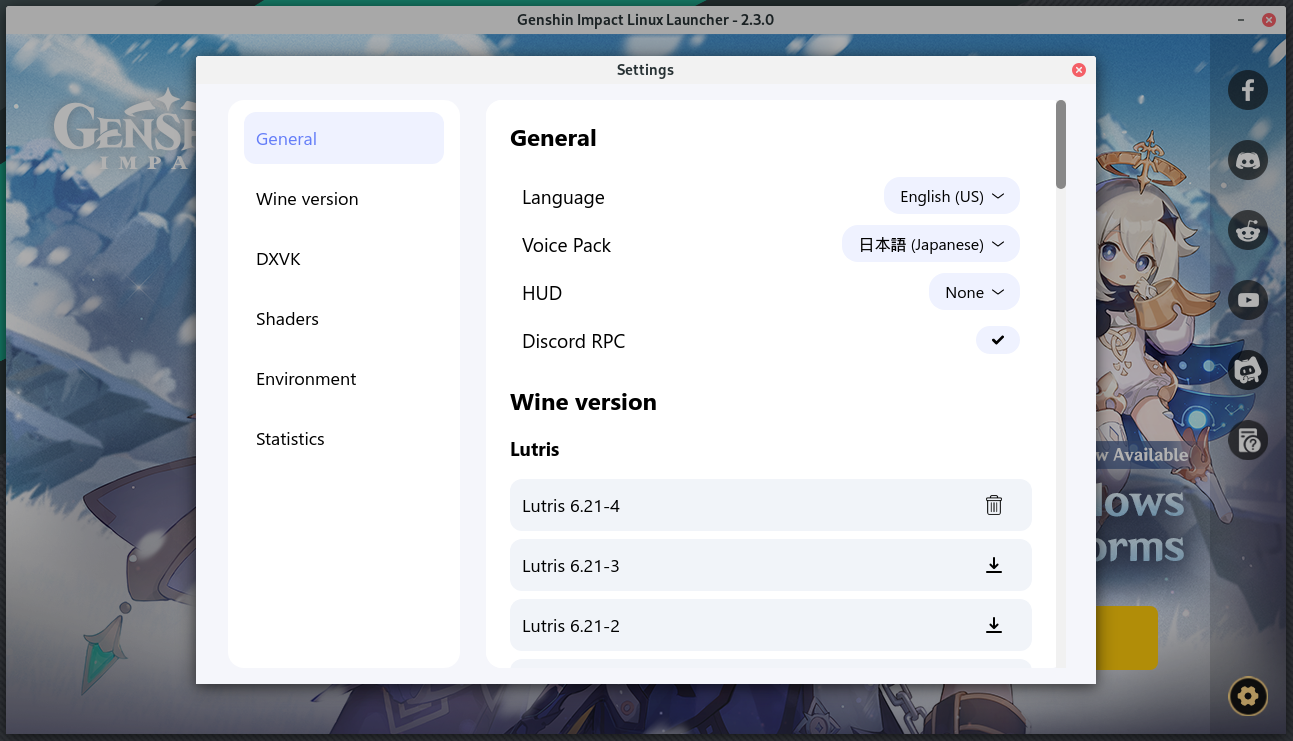
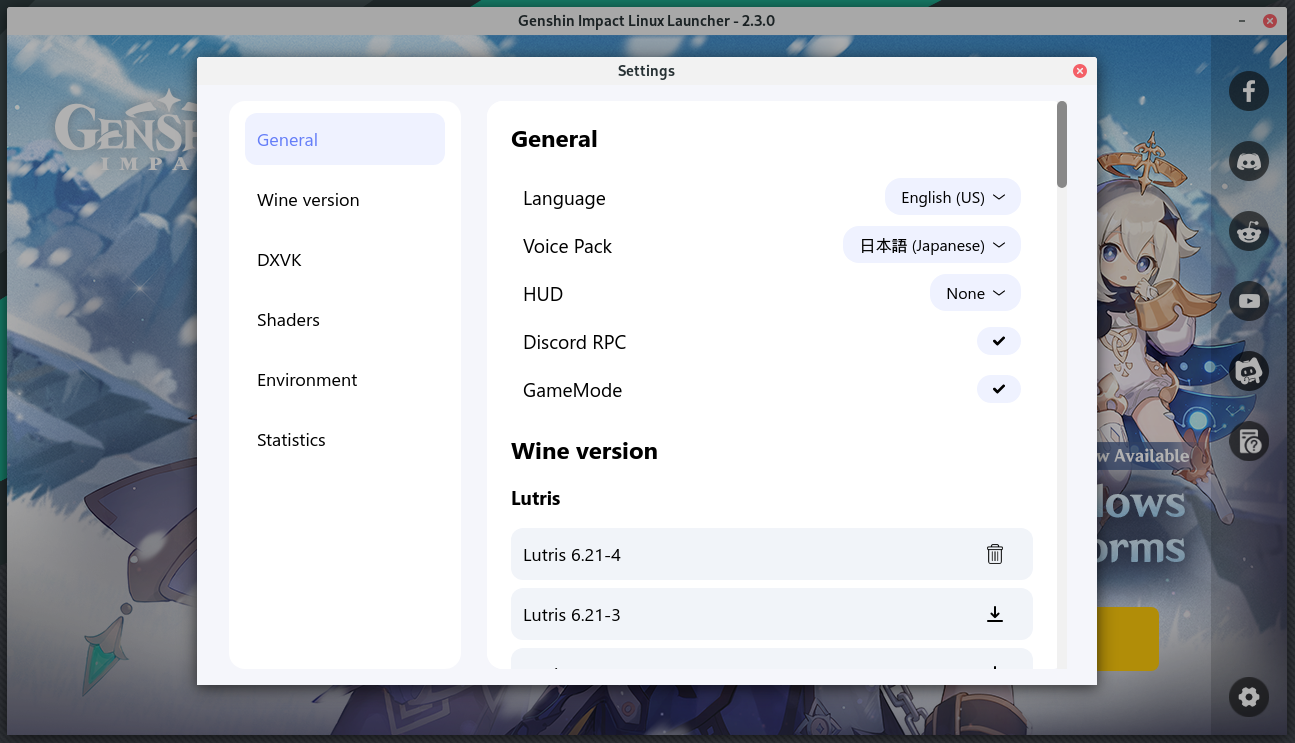
1.5.8 - added GameMode support (thanks to Laurin Neff) - updated statistics

diff --git a/src/ts/settings.ts b/src/ts/settings.ts
@@ -111,17 +111,23 @@ $(() => {
      * GameMode
      */
 
-    let gameModeAvailable = 0;
-    process.env.PATH?.split(':').forEach(path => gameModeAvailable |= fs.existsSync(`${path}/gamemoderun`));
+    let gameModeAvailable = fs.existsSync('/usr/share/gamemoderun');
 
-    if(!gameModeAvailable)
-        $(`<p>⚠ ${LauncherUI.i18n.translate('GameModeNotInstalled')}</p>`).insertAfter('#gamemode');
+    process.env.PATH?.split(':').forEach(path => gameModeAvailable ||= fs.existsSync(`${path}/gamemoderun`));
 
-    if (LauncherLib.getConfig("gamemode"))
-        $("#gamemode").addClass("checkbox-active");
+    if (!gameModeAvailable)
+    {
+        $('#gamemode')
+            .addClass('checkbox-disabled')
+            .addClass('hint--top hint--medium')
+            .attr('data-hint', LauncherUI.i18n.translate('GameModeNotInstalled'));
+    }
 
-    $("#gamemode").on("classChange", () => {
-        LauncherLib.updateConfig("gamemode",$("#gamemode").hasClass("checkbox-active"));
+    if (LauncherLib.getConfig('gamemode'))
+        $('#gamemode').addClass('checkbox-active');
+
+    $('#gamemode').on('classChange', () => {
+        LauncherLib.updateConfig('gamemode', $('#gamemode').hasClass('checkbox-active'));
     });
 
     /**
@@ -131,7 +137,7 @@ $(() => {
     let reshadeAvailable = fs.existsSync('/usr/share/reshade');
 
     if (!reshadeAvailable)
-        process.env.PATH?.split(':').forEach(path => reshadeAvailable |= fs.existsSync(`${path}/reshade`));
+        process.env.PATH?.split(':').forEach(path => reshadeAvailable ||= fs.existsSync(`${path}/reshade`));
 
     if (!reshadeAvailable)
         $(`<p>⚠ ${LauncherUI.i18n.translate('ReshadeNotInstalled')}</p>`).appendTo('#shaders');

diff --git a/src/ts/index.ts b/src/ts/index.ts
@@ -178,16 +178,18 @@ $(() => {
                         fs.writeFileSync(launcherShadersFile, fs.readFileSync(userShadersFile));
                     }
 
-                    let cmd = `${wineExeutable} launcher.bat`;
+                    let command = `${wineExeutable} launcher.bat`;
 
-                    if (LauncherLib.getConfig('gamemode')) {
-                        cmd = `gamemoderun ${cmd}`;
-                    }
+                    /**
+                     * Gamemode integration
+                     */
+                    if (LauncherLib.getConfig('gamemode'))
+                        command = `gamemoderun ${command}`;
                     
                     // Starting the game
                     const startTime = Date.now();
         
-                    exec(cmd, {
+                    exec(command, {
                         cwd: constants.gameDir,
                         env: {
                             ...process.env,

diff --git a/src/sass/components.sass b/src/sass/components.sass
@@ -150,7 +150,7 @@ $secondary: #e1e7ff
 /* Checkbox */
     
 .checkbox
-    display: inline-flex
+    display: inline-flex !important
     align-items: center
 
     font-size: larger
@@ -181,6 +181,12 @@ $secondary: #e1e7ff
         svg
             height: 12px
             width: 12px
+
+.checkbox-disabled
+    background-color: $light
+
+    .checkbox-mark
+        display: none
 
 .checkbox-active
     .checkbox-mark

diff --git a/README.md b/README.md
@@ -14,9 +14,9 @@
 
 | Game version | Launcher version | Patch version |
 | :---: | :---: | :---: |
-| 2.3.0 | 1.5.7 | 2.3.0 testing ⚠ |
+| 2.3.0 | 1.5.8 | 2.3.0 testing ⚠ |
 
-We have our own [An Anime Game](https://discord.gg/MA8fTBarfj) discord server where you can ask any questions
+We have our own [An Anime Game](https://discord.gg/ck37X6UWBp) discord server where you can ask any questions
 
 ### AppImage
 
@@ -72,6 +72,7 @@ sudo pacman -Syu wine winetricks unzip tar git
 | --- | --- |
 | [MangoHud](https://github.com/flightlessmango/MangoHud) | To use MangoHud |
 | [vkBasalt](https://github.com/DadSchoorse/vkBasalt) | To use shaders |
+| [GameMode](https://github.com/FeralInteractive/gamemode) | To use GameMode (performance optimisation) |
 
 These requirements can't be easily installed so you should do it manually
 
@@ -121,9 +122,10 @@ npm start
   - [notahuman's](https://notabug.org/Krock/GI-on-Linux/src/master/static/vkBasalt_notahuman.conf) prime preset v2
 * <s>Make shaders manager hidden if vkBasalt is not installed</s> *(1.5.4)*
 * <s>Make MangoHud option hidden if it is not installed</s> *(1.5.4)*
+* <s>GameMode integration ([issue 28](https://notabug.org/nobody/an-anime-game-launcher/issues/28), [pull request 30](https://notabug.org/nobody/an-anime-game-launcher/pulls/30))</s> *(1.5.8)*
 * DXVK logs auto-deletion option
 * Fix button flickering at start when the launcher's state updates
-* Wine prefix folder selection
+* Wine prefix folder selection *(symlinks?)*
 * Game's update pre-installation
 * Screenshots explorer
 * Make force launch button when the launcher's repository is unavailable *(waiting for the repository's unavailability lmao)*
@@ -132,8 +134,7 @@ npm start
   - Always participate in patches testing
   - Applying anti login crash patch
   - Remove patch
-* GameMode integration (#28)
-* Hybrid GPU integration (#29)
+* Hybrid GPU integration ([issue 29](https://notabug.org/nobody/an-anime-game-launcher/issues/29))
 
 > Now I'm working on moving the project to the Tauri. Also for some personal reasons I, like the patch's author, will be busy, but until Christmas, so it's a bit more than a month. I will make some critical updates if they will be required, but the development will be frozen for this period. I hope you will enjoy playing the game, and I will enjoy continuing the development of this project
 >
